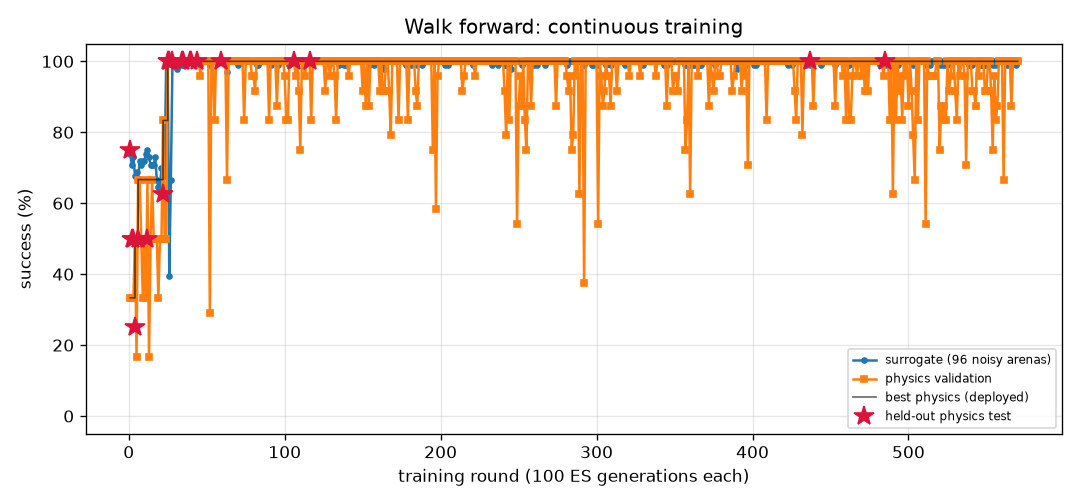
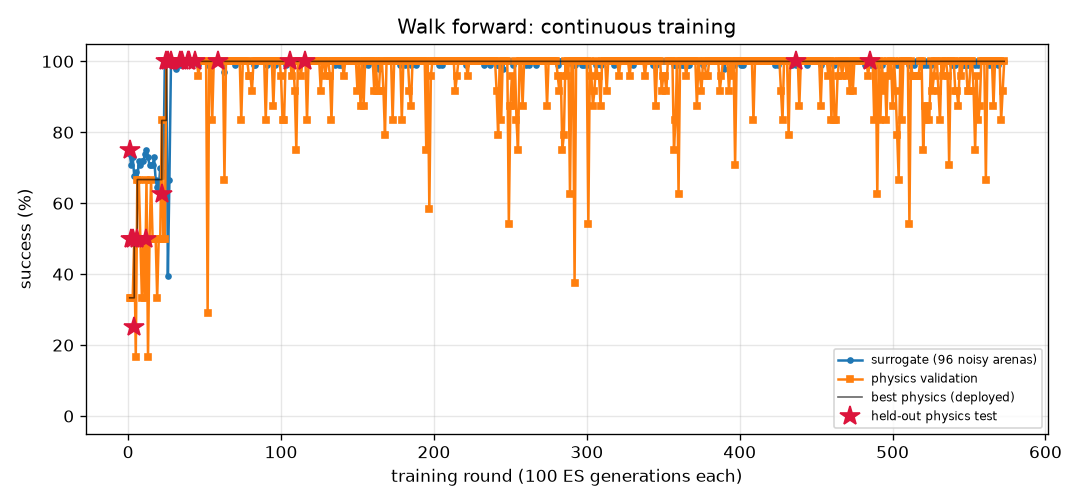
FlyLab: continuous training progress
- walk_forward: optimal, physics val 100% of 24, round 573
- turn: optimal, physics val 100% of 24, round 1416
- goto: optimal, physics val 100% of 24, round 442
- odor_seek: optimal, physics val 100% of 24, round 353
- odor_avoid: optimal, physics val 100% of 24, round 1186
- light_seek: optimal, physics val 100% of 24, round 647
- light_avoid: optimal, physics val 100% of 24, round 901

diff --git a/projects/09_flylab/training/walk_forward/REPORT.md b/projects/09_flylab/training/walk_forward/REPORT.md
@@ -1,14 +1,14 @@
 # Walk forward (`walk_forward`) — training report
 
-*Auto-generated by `train_brains.py`, last updated 2026-11-27T18:27:43.*
+*Auto-generated by `train_brains.py`, last updated 2026-11-27T21:48:49.*
 
 ![curve](curve.png)
 
 | | |
 |---|---|
-| rounds | 570 |
-| ES generations | 57000 |
-| physics runs | 13758 |
+| rounds | 573 |
+| ES generations | 57300 |
+| physics runs | 13830 |
 | status | **optimal** |
 | best brain | round 485: physics validation **100%** on 24 arenas, surrogate 100% |
 | held-out physics test | **100%** on 32 unseen arenas (95% CI 89%-100%) (errors: [0.14, 0.13, 0.15, 0.21, 0.14, 0.12, 0.13, 0.18, 0.2, 0.15, 0.13, 0.14, 0.2, 0.15, 0.12, 0.12, 0.14, 0.14, 0.13, 0.13, 0.14, 0.21, 0.14, 0.13, 0.14, 0.14, 0.18, 0.14, 0.14, 0.14, 0.17, 0.15]) |
@@ -17,9 +17,6 @@ Physics error per arena: mm from target at the end (< 1.5 and standing still = s
 
 | round | level | gens | sigma | surrogate | physics val | val errors | test | note |
 |---:|---:|---:|---:|---:|---:|---|---:|---|
-| 531 | 3 | 53100 | 0.024 | 100% | 83% | [0.2, 0.24, 0.34, 0.19, 0.24, 0.4, 0.24, 0.06, 0.24, 0.23, 0.1, 0.1, 0.07, 0.08, 0.21, 0.21, 0.18, 0.23, 0.07, 0.23, 0.06, 0.23, 0.08, 0.16] |  |  |
-| 532 | 3 | 53200 | 0.024 | 100% | 100% | [0.22, 0.24, 0.09, 0.21, 0.23, 0.08, 0.1, 0.08, 0.23, 0.12, 0.04, 0.15, 0.2, 0.09, 0.23, 0.13, 0.21, 0.24, 0.2, 0.23, 0.21, 0.13, 0.12, 0.2] |  |  |
-| 533 | 3 | 53300 | 0.024 | 100% | 96% | [0.15, 0.22, 0.11, 0.15, 0.22, 0.12, 0.22, 0.11, 0.22, 0.22, 0.13, 0.21, 0.11, 0.29, 0.17, 0.21, 0.14, 0.21, 0.12, 0.18, 0.12, 0.22, 0.2, 0.11] |  | restart from best |
 | 534 | 3 | 53400 | 0.024 | 100% | 100% | [0.28, 0.35, 0.04, 0.28, 0.35, 0.04, 0.34, 0.22, 0.34, 0.34, 0.04, 0.32, 0.24, 0.23, 0.31, 0.33, 0.26, 0.34, 0.24, 0.32, 0.25, 0.34, 0.31, 0.23] |  |  |
 | 535 | 3 | 53500 | 0.024 | 100% | 100% | [0.16, 0.23, 0.19, 0.16, 0.23, 0.18, 0.25, 0.17, 0.24, 0.28, 0.19, 0.28, 0.17, 0.18, 0.16, 0.29, 0.16, 0.21, 0.17, 0.17, 0.17, 0.29, 0.28, 0.17] |  |  |
 | 536 | 3 | 53600 | 0.024 | 100% | 96% | [0.19, 0.28, 0.02, 0.19, 0.29, 0.22, 0.3, 0.19, 0.29, 0.31, 0.21, 0.28, 0.04, 0.23, 0.21, 0.3, 0.02, 0.26, 0.1, 0.23, 0.05, 0.3, 0.27, 0.06] |  |  |
@@ -57,3 +54,6 @@ Physics error per arena: mm from target at the end (< 1.5 and standing still = s
 | 568 | 3 | 56800 | 0.024 | 100% | 100% | [0.22, 0.18, 0.27, 0.23, 0.17, 0.27, 0.19, 0.27, 0.18, 0.28, 0.27, 0.34, 0.27, 0.27, 0.2, 0.32, 0.24, 0.17, 0.27, 0.19, 0.27, 0.3, 0.34, 0.27] |  |  |
 | 569 | 3 | 56900 | 0.024 | 99% | 100% | [0.19, 0.17, 0.23, 0.19, 0.17, 0.23, 0.19, 0.23, 0.18, 0.27, 0.23, 0.3, 0.23, 0.23, 0.17, 0.29, 0.2, 0.15, 0.22, 0.16, 0.22, 0.28, 0.3, 0.24] |  | restart from best |
 | 570 | 3 | 57000 | 0.024 | 100% | 100% | [0.14, 0.22, 0.21, 0.15, 0.21, 0.21, 0.23, 0.18, 0.23, 0.29, 0.22, 0.3, 0.2, 0.21, 0.14, 0.3, 0.15, 0.18, 0.18, 0.15, 0.17, 0.29, 0.29, 0.19] |  |  |
+| 571 | 3 | 57100 | 0.024 | 100% | 83% | [0.05, 0.17, 0.07, 0.04, 0.16, 0.45, 0.18, 0.05, 0.17, 0.21, 0.3, 0.22, 0.06, 0.08, 0.06, 0.22, 2.21, 0.08, 0.05, 0.09, 1.79, 0.22, 0.22, 0.06] |  |  |
+| 572 | 3 | 57200 | 0.024 | 100% | 92% | [0.38, 0.16, 0.05, 0.51, 0.16, 0.03, 0.18, 0.07, 0.17, 0.2, 0.08, 0.21, 0.07, 0.37, 0.89, 0.21, 0.78, 0.14, 0.07, 0.1, 0.06, 0.21, 0.21, 0.08] |  |  |
+| 573 | 3 | 57300 | 0.024 | 100% | 100% | [0.2, 0.22, 0.15, 0.2, 0.22, 0.15, 0.23, 0.18, 0.22, 0.21, 0.14, 0.2, 0.17, 0.14, 0.21, 0.21, 0.19, 0.22, 0.17, 0.21, 0.18, 0.21, 0.19, 0.18] |  | restart from best |

diff --git a/projects/09_flylab/training/goto/REPORT.md b/projects/09_flylab/training/goto/REPORT.md
@@ -1,14 +1,14 @@
 # Go to a location (`goto`) — training report
 
-*Auto-generated by `train_brains.py`, last updated 2026-11-27T20:56:12.*
+*Auto-generated by `train_brains.py`, last updated 2026-11-27T21:46:43.*
 
 ![curve](curve.png)
 
 | | |
 |---|---|
-| rounds | 440 |
-| ES generations | 44000 |
-| physics runs | 10510 |
+| rounds | 442 |
+| ES generations | 44200 |
+| physics runs | 10558 |
 | status | **optimal** |
 | best brain | round 176: physics validation **100%** on 24 arenas, surrogate 100% |
 | held-out physics test | **100%** on 32 unseen arenas (95% CI 89%-100%) (errors: [0.2, 0.32, 0.19, 0.24, 0.18, 0.2, 0.19, 0.17, 0.22, 0.23, 0.23, 0.26, 0.2, 0.19, 0.24, 0.23, 0.22, 0.24, 0.2, 0.22, 0.2, 0.2, 0.26, 0.19, 0.22, 0.18, 0.26, 0.22, 0.2, 0.26, 0.23, 0.23]) |
@@ -17,8 +17,6 @@ Physics error per arena: mm from target at the end (< 1.5 and standing still = s
 
 | round | level | gens | sigma | surrogate | physics val | val errors | test | note |
 |---:|---:|---:|---:|---:|---:|---|---:|---|
-| 401 | 3 | 40100 | 0.024 | 99% | 100% | [0.49, 0.42, 0.37, 0.38, 0.33, 0.34, 0.48, 0.39, 0.41, 0.35, 0.35, 0.37, 0.44, 0.32, 0.42, 0.38, 0.46, 0.38, 0.34, 0.44, 0.36, 0.37, 0.45, 0.35] |  |  |
-| 402 | 3 | 40200 | 0.025 | 100% | 100% | [0.49, 0.49, 0.39, 0.42, 0.41, 0.39, 0.5, 0.4, 0.47, 0.41, 0.38, 0.42, 0.5, 0.38, 0.45, 0.46, 0.51, 0.4, 0.4, 0.46, 0.44, 0.42, 0.49, 0.42] |  |  |
 | 403 | 3 | 40300 | 0.024 | 100% | 100% | [0.54, 0.53, 0.53, 0.48, 0.47, 0.45, 0.52, 0.48, 0.51, 0.49, 0.47, 0.49, 0.56, 0.45, 0.53, 0.55, 0.56, 0.49, 0.5, 0.52, 0.51, 0.48, 0.55, 0.47] |  |  |
 | 404 | 3 | 40400 | 0.024 | 99% | 100% | [0.75, 0.7, 0.63, 0.69, 0.59, 0.63, 0.77, 0.7, 0.77, 0.6, 0.6, 0.66, 0.79, 0.55, 0.62, 0.67, 0.77, 0.68, 0.6, 0.79, 0.63, 0.62, 0.76, 0.7] |  | restart from best |
 | 405 | 3 | 40500 | 0.024 | 99% | 100% | [0.54, 0.53, 0.53, 0.42, 0.39, 0.4, 0.51, 0.47, 0.52, 0.39, 0.37, 0.4, 0.5, 0.41, 0.43, 0.47, 0.52, 0.42, 0.36, 0.47, 0.44, 0.4, 0.53, 0.41] |  |  |
@@ -57,3 +55,5 @@ Physics error per arena: mm from target at the end (< 1.5 and standing still = s
 | 438 | 3 | 43800 | 0.024 | 99% | 100% | [0.49, 0.44, 0.43, 0.4, 0.34, 0.37, 0.51, 0.38, 0.43, 0.36, 0.35, 0.38, 0.45, 0.31, 0.43, 0.39, 0.48, 0.38, 0.37, 0.45, 0.37, 0.39, 0.45, 0.37] |  |  |
 | 439 | 3 | 43900 | 0.025 | 99% | 100% | [0.53, 0.47, 0.49, 0.39, 0.33, 0.37, 0.49, 0.44, 0.52, 0.34, 0.33, 0.39, 0.47, 0.33, 0.38, 0.4, 0.51, 0.41, 0.32, 0.44, 0.38, 0.36, 0.5, 0.38] |  |  |
 | 440 | 3 | 44000 | 0.025 | 100% | 100% | [0.5, 0.48, 0.46, 0.4, 0.38, 0.39, 0.49, 0.39, 0.49, 0.38, 0.37, 0.38, 0.46, 0.37, 0.44, 0.43, 0.4, 0.38, 0.37, 0.44, 0.42, 0.39, 0.46, 0.39] |  | restart from best |
+| 441 | 3 | 44100 | 0.024 | 100% | 100% | [0.7, 0.68, 0.73, 0.64, 0.59, 0.58, 0.71, 0.62, 0.68, 0.6, 0.58, 0.63, 0.7, 0.56, 0.67, 0.67, 0.73, 0.62, 0.6, 0.72, 0.61, 0.66, 0.73, 0.62] |  |  |
+| 442 | 3 | 44200 | 0.024 | 99% | 100% | [0.61, 0.56, 0.57, 0.47, 0.44, 0.44, 0.58, 0.51, 0.46, 0.45, 0.42, 0.48, 0.54, 0.44, 0.54, 0.5, 0.6, 0.49, 0.42, 0.53, 0.48, 0.46, 0.58, 0.46] |  |  |

diff --git a/projects/09_flylab/training/TRAINING.md b/projects/09_flylab/training/TRAINING.md
@@ -1,14 +1,14 @@
 # FlyLab brains — continuous training log
 
-*Auto-generated by `train_brains.py`, last updated 2026-11-27T20:56:12.*
+*Auto-generated by `train_brains.py`, last updated 2026-11-27T21:48:49.*
 
 Every skill has its own brain and its own training process: surrogate ES rounds, physics validation in MuJoCo, keep-the-best selection, and a held-out physics test that is never used for selection. See each skill's report for its full round-by-round history. Mastery is progressive: passing a level (100% physics validation, >=95% surrogate) doubles the validation and test arena sets; a brain is **optimal** once it holds up at level 3 (>=95% of 24 validation arenas) AND scores >=90% on the 32 held-out test arenas. Test columns show 95% Wilson confidence intervals.
 
 | skill | rounds | ES generations | physics runs | surrogate | physics val | **physics test** | status |
 |---|---:|---:|---:|---:|---:|---:|---|
-| [Walk forward](walk_forward/REPORT.md) | 570 | 57000 | 13758 | 100% | 100% of 24 | 100% of 32 (CI 89-100%) | **optimal** |
+| [Walk forward](walk_forward/REPORT.md) | 573 | 57300 | 13830 | 100% | 100% of 24 | 100% of 32 (CI 89-100%) | **optimal** |
 | [Turn in place](turn/REPORT.md) | 1416 | 141600 | 34230 | 100% | 100% of 24 | 97% of 32 (CI 84-99%) | **optimal** |
-| [Go to a location](goto/REPORT.md) | 440 | 44000 | 10510 | 100% | 100% of 24 | 100% of 32 (CI 89-100%) | **optimal** |
+| [Go to a location](goto/REPORT.md) | 442 | 44200 | 10558 | 100% | 100% of 24 | 100% of 32 (CI 89-100%) | **optimal** |
 | [Find food by smell](odor_seek/REPORT.md) | 353 | 35300 | 7966 | 100% | 100% of 24 | 100% of 32 (CI 89-100%) | **optimal** |
 | [Escape a bad smell](odor_avoid/REPORT.md) | 1186 | 118600 | 25770 | 97% | 100% of 24 | 97% of 32 (CI 84-99%) | **optimal** |
 | [Walk toward light](light_seek/REPORT.md) | 647 | 64700 | 12408 | 100% | 100% of 24 | 100% of 32 (CI 89-100%) | **optimal** |
